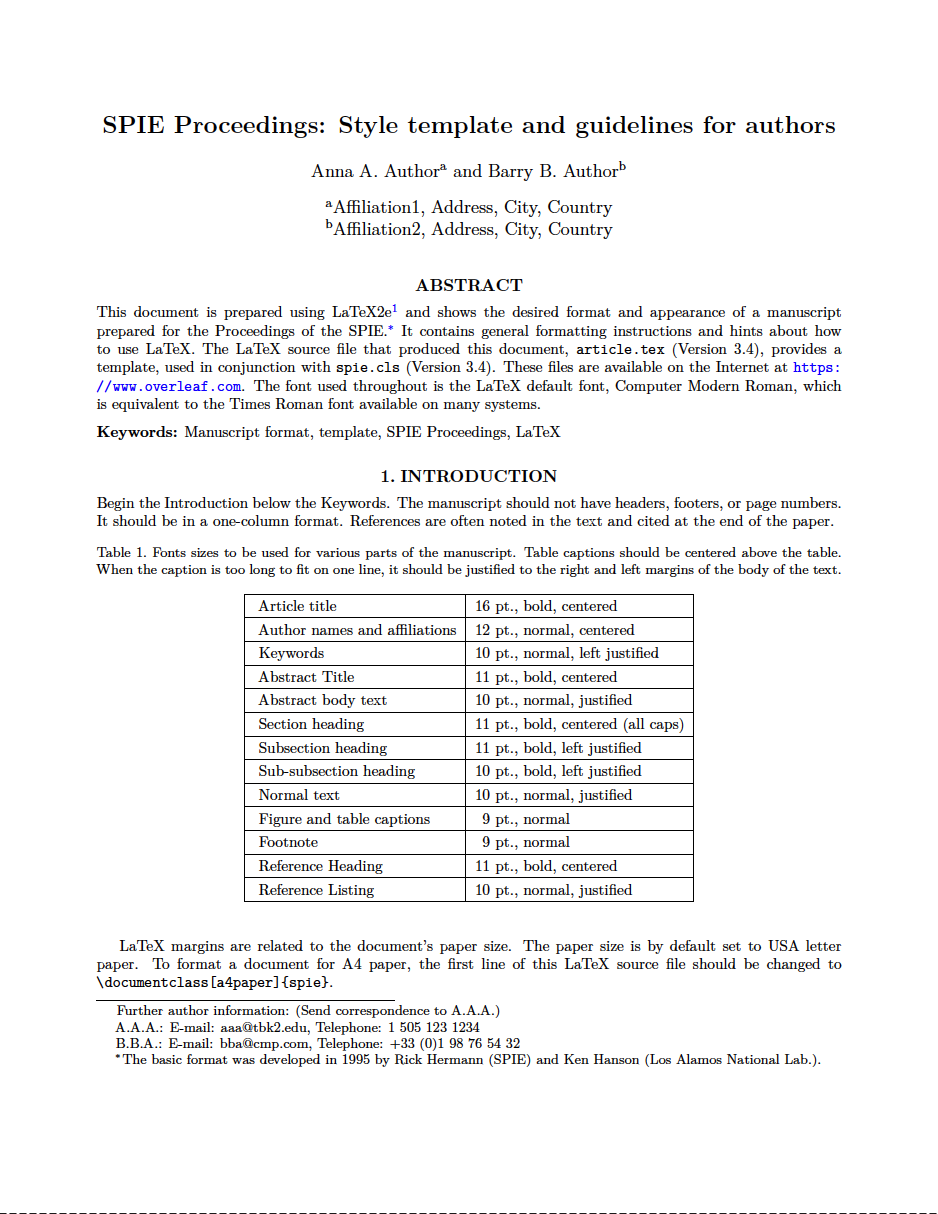
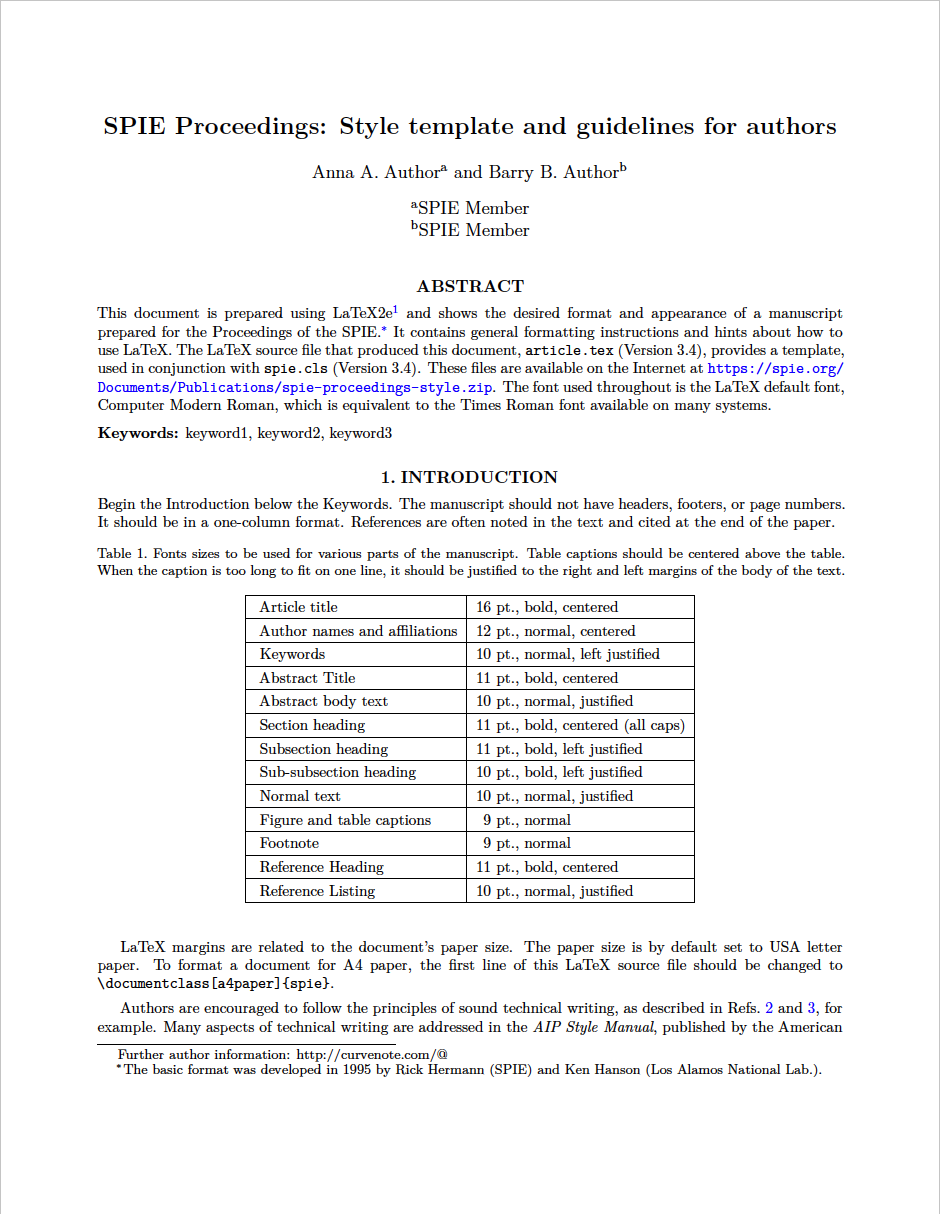
updated syntax and thumb, aligned example content

Changed region(s): [[0.0928, 0.0914, 0.8966, 0.8839], [0.9893, 0.9753, 1.0, 1.0], [0.9893, 0.0, 1.0, 0.0305]]

diff --git a/latex/spie_proceedings/example/main.tex b/latex/spie_proceedings/example/main.tex
@@ -1,0 +1,212 @@
+\section{INTRODUCTION}
+\label{sec:intro}  % \label{} allows reference to this section
+
+Begin the Introduction below the Keywords. The manuscript should not have headers, footers, or page numbers. It should be in a one-column format. References are often noted in the text and cited at the end of the paper.
+
+\begin{table}[ht]
+\caption{Fonts sizes to be used for various parts of the manuscript.  Table captions should be centered above the table.  When the caption is too long to fit on one line, it should be justified to the right and left margins of the body of the text.}
+\label{tab:fonts}
+\begin{center}
+\begin{tabular}{|l|l|} %% this creates two columns
+%% |l|l| to left justify each column entry
+%% |c|c| to center each column entry
+%% use of \rule[]{}{} below opens up each row
+\hline
+\rule[-1ex]{0pt}{3.5ex}  Article title & 16 pt., bold, centered  \\
+\hline
+\rule[-1ex]{0pt}{3.5ex}  Author names and affiliations & 12 pt., normal, centered   \\
+\hline
+\rule[-1ex]{0pt}{3.5ex}  Keywords & 10 pt., normal, left justified   \\
+\hline
+\rule[-1ex]{0pt}{3.5ex}  Abstract Title & 11 pt., bold, centered   \\
+\hline
+\rule[-1ex]{0pt}{3.5ex}  Abstract body text & 10 pt., normal, justified   \\
+\hline
+\rule[-1ex]{0pt}{3.5ex}  Section heading & 11 pt., bold, centered (all caps)  \\
+\hline
+\rule[-1ex]{0pt}{3.5ex}  Subsection heading & 11 pt., bold, left justified  \\
+\hline
+\rule[-1ex]{0pt}{3.5ex}  Sub-subsection heading & 10 pt., bold, left justified  \\
+\hline
+\rule[-1ex]{0pt}{3.5ex}  Normal text & 10 pt., normal, justified  \\
+\hline
+\rule[-1ex]{0pt}{3.5ex}  Figure and table captions & \, 9 pt., normal \\
+\hline
+\rule[-1ex]{0pt}{3.5ex}  Footnote & \, 9 pt., normal \\
+\hline
+\rule[-1ex]{0pt}{3.5ex}  Reference Heading & 11 pt., bold, centered   \\
+\hline
+\rule[-1ex]{0pt}{3.5ex}  Reference Listing & 10 pt., normal, justified   \\
+\hline
+\end{tabular}
+\end{center}
+\end{table}
+
+\begin{table}[ht]
+\caption{Margins and print area specifications.}
+\label{tab:Paper Margins}
+\begin{center}
+\begin{tabular}{|l|l|l|}
+\hline
+\rule[-1ex]{0pt}{3.5ex}  Margin & A4 & Letter  \\
+\hline
+\rule[-1ex]{0pt}{3.5ex}  Top margin & 2.54 cm & 1.0 in.   \\
+\hline
+\rule[-1ex]{0pt}{3.5ex}  Bottom margin & 4.94 cm & 1.25 in.  \\
+\hline
+\rule[-1ex]{0pt}{3.5ex}  Left, right margin & 1.925 cm & .875 in.  \\
+\hline
+\rule[-1ex]{0pt}{3.5ex}  Printable area & 17.15 x 22.23 cm & 6.75 x 8.75 in.  \\
+\hline
+\end{tabular}
+\end{center}
+\end{table}
+
+LaTeX margins are related to the document's paper size. The paper size is by default set to USA letter paper. To format a document for A4 paper, the first line of this LaTeX source file should be changed to \verb|\documentclass[a4paper]{spie}|.
+
+Authors are encouraged to follow the principles of sound technical writing, as described in Refs.~\citenum{Alred03} and \citenum{Perelman97}, for example.  Many aspects of technical writing are addressed in the {\em AIP Style Manual}, published by the American Institute of Physics.  It is available on line at \url{https://publishing.aip.org/authors}. A spelling checker is helpful for finding misspelled words.
+
+An author may use this LaTeX source file as a template by substituting his/her own text in each field.  This document is not meant to be a complete guide on how to use LaTeX.  For that, please see the list of references at \url{http://latex-project.org/guides/} and for an online introduction to LaTeX please see \citenum{Lees-Miller-LaTeX-course-1}.
+
+\section{FORMATTING OF MANUSCRIPT COMPONENTS}
+
+This section describes the normal structure of a manuscript and how each part should be handled.  The appropriate vertical spacing between various parts of this document is achieved in LaTeX through the proper use of defined constructs, such as \verb|\section{}|.  In LaTeX, paragraphs are separated by blank lines in the source file.
+
+At times it may be desired, for formatting reasons, to break a line without starting a new paragraph.  This situation may occur, for example, when formatting the article title, author information, or section headings.  Line breaks are inserted in LaTeX by entering \verb|\\| or \verb|\linebreak| in the LaTeX source file at the desired location.
+
+\subsection{Title and Author Information}
+\label{sec:title}
+
+The article title appears centered at the top of the first page.  The title font is 16 point, bold.  The rules for capitalizing the title are the same as for sentences; only the first word, proper nouns, and acronyms should be capitalized.  Avoid using acronyms in the title.  Keep in mind that people outside your area of expertise might read your article. At the first occurrence of an acronym, spell it out, followed by the acronym in parentheses, e.g., noise power spectrum (NPS).
+
+The author list is in 12-pt. regular, centered. Omit titles and degrees such as Dr., Prof., Ph.D., etc. The list of affiliations follows the author list. Each author's affiliation should be clearly noted. Superscripts may be used to identify the correspondence between the authors and their respective affiliations.  Further author information, such as e-mail address, complete postal address, and web-site location, may be provided in a footnote by using \verb|\authorinfo{}|, as demonstrated above.
+
+\subsection{Abstract and Keywords}
+The title and author information is immediately followed by the Abstract. The Abstract should concisely summarize the key findings of the paper.  It should consist of a single paragraph containing no more than 250 words.  The Abstract does not have a section number.  A list of up to eight keywords should immediately follow the Abstract after a blank line.  These keywords will be included in a searchable database at SPIE.
+
+\subsection{Body of Paper}
+The body of the paper consists of numbered sections that present the main findings.  These sections should be organized to best present the material.  See Sec.~\ref{sec:sections} for formatting instructions.
+
+\subsection{Appendices}
+Auxiliary material that is best left out of the main body of the paper, for example, derivations of equations, proofs of theorems, and details of algorithms, may be included in appendices.  Appendices are enumerated with uppercase Latin letters in alphabetic order, and appear just before the Acknowledgments and References. Appendix~\ref{sec:misc} contains more about formatting equations and theorems.
+
+\subsection{Acknowledgments}
+In the Acknowledgments section, appearing just before the References, the authors may credit others for their guidance or help.  Also, funding sources may be stated.  The Acknowledgments section does not have a section number.
+
+\subsection{References}
+SPIE is able to display the references section of your paper in the SPIE Digital Library, complete with links to referenced journal articles, proceedings papers, and books, when available. This added feature will bring more readers to your paper and improve the usefulness of the SPIE Digital Library for all researchers. The References section does not have a section number.  The references are numbered in the order in which they are cited.  Examples of the format to be followed are given at the end of this document.
+
+The reference list at the end of this document is created using BibTeX, which looks through the file {\ttfamily report.bib} for the entries cited in the LaTeX source file.  The format of the reference list is determined by the bibliography style file {\ttfamily spiebib.bst}, as specified in the \verb|\bibliographystyle{spiebib}| command.  Alternatively, the references may be directly formatted in the LaTeX source file.
+
+For books\cite{Lamport94,Alred03,Goossens97}, the listing includes the list of authors, book title, publisher, city, page or chapter numbers, and year of publication.  A reference to a journal article\cite{Metropolis53} includes the author list, title of the article (in quotes), journal name (in italics, properly abbreviated), volume number (in bold), inclusive page numbers, and year.  By convention\cite{Lamport94}, article titles are capitalized as described in Sec.~\ref{sec:title}.  A reference to a proceedings paper or a chapter in an edited book\cite{Gull89a} includes the author list, title of the article (in quotes), volume or series title (in italics), volume number (in bold), if applicable, inclusive page numbers, publisher, city, and year.  References to an article in the SPIE Proceedings may include the conference name (in italics), as shown in Ref.~\citenum{Hanson93c}. For websites\cite{Lees-Miller-LaTeX-course-1} the listing includes the list of authors, title of the article (in quotes), website name, article date, website address either enclosed in chevron symbols ('\(<\)' and '\(>\)'),  underlined or linked, and the date the website was accessed.
+
+If you use this formatting, your references will link your manuscript to other research papers that are in the CrossRef system. Exact punctuation is required for the automated linking to be successful.
+
+Citations to the references are made using superscript numerals, as demonstrated in the above paragraph.  One may also directly refer to a reference within the text, e.g., ``as shown in Ref.~\citenum{Metropolis53} ...''
+
+\subsection{Footnotes}
+Footnotes\footnote{Footnotes are indicated as superscript symbols to avoid confusion with citations.} may be used to provide auxiliary information that doesn't need to appear in the text, e.g., to explain measurement units.  They should be used sparingly, however.
+
+Only nine footnote symbols are available in LaTeX. If you have more than nine footnotes, you will need to restart the sequence using the command  \verb|\footnote[1]{Your footnote text goes here.}|. If you don't, LaTeX will provide the error message {\ttfamily Counter too large.}, followed by the offending footnote command.
+
+\section{SECTION FORMATTING}
+\label{sec:sections}
+
+Section headings are centered and formatted completely in uppercase 11-point bold font.  Sections should be numbered sequentially, starting with the first section after the Abstract.  The heading starts with the section number, followed by a period.  In LaTeX, a new section is created with the \verb|\section{}| command, which automatically numbers the sections.
+
+Paragraphs that immediately follow a section heading are leading paragraphs and should not be indented, according to standard publishing style\cite{Lamport94}.  The same goes for leading paragraphs of subsections and sub-subsections.  Subsequent paragraphs are standard paragraphs, with 14-pt.\ (5 mm) indentation.  An extra half-line space should be inserted between paragraphs.  In LaTeX, this spacing is specified by the parameter \verb|\parskip|, which is set in {\ttfamily spie.cls}.  Indentation of the first line of a paragraph may be avoided by starting it with \verb|\noindent|.
+
+\subsection{Subsection Attributes}
+
+The subsection heading is left justified and set in 11-point, bold font.  Capitalization rules are the same as those for book titles.  The first word of a subsection heading is capitalized.  The remaining words are also capitalized, except for minor words with fewer than four letters, such as articles (a, an, and the), short prepositions (of, at, by, for, in, etc.), and short conjunctions (and, or, as, but, etc.).  Subsection numbers consist of the section number, followed by a period, and the subsection number within that section.
+
+\subsubsection{Sub-subsection attributes}
+The sub-subsection heading is left justified and its font is 10 point, bold.  Capitalize as for sentences.  The first word of a sub-subsection heading is capitalized.  The rest of the heading is not capitalized, except for acronyms and proper names.
+
+\section{FIGURES AND TABLES}
+
+Figures are numbered in the order of their first citation.  They should appear in numerical order and on or after the same page as their first reference in the text.  Alternatively, all figures may be placed at the end of the manuscript, that is, after the Reference section.  It is preferable to have figures appear at the top or bottom of the page.  Figures, along with their captions, should be separated from the main text by at least 0.2 in.\ or 5 mm.
+
+Figure captions are centered below the figure or graph.  Figure captions start with the figure number in 9-point bold font, followed by a period; the text is in 9-point normal font; for example, ``{\footnotesize{Figure 3.}  Original image...}''.  See Fig.~\ref{fig:example} for an example of a figure caption.  When the caption is too long to fit on one line, it should be justified to the right and left margins of the body of the text.
+
+Tables are handled identically to figures, except that their captions appear above the table.
+
+   \begin{figure} [ht]
+   \begin{center}
+   \begin{tabular}{c} %% tabular useful for creating an array of images
+   \includegraphics[height=5cm]{mcr3b.eps}
+   \end{tabular}
+   \end{center}
+   \caption[example]
+%>>>> use \label inside caption to get Fig. number with \ref{}
+   { \label{fig:example}
+Figure captions are used to describe the figure and help the reader understand it's significance.  The caption should be centered underneath the figure and set in 9-point font.  It is preferable for figures and tables to be placed at the top or bottom of the page. LaTeX tends to adhere to this standard.}
+   \end{figure}
+
+\section{MULTIMEDIA FIGURES - VIDEO AND AUDIO FILES}
+
+Video and audio files can be included for publication. See Tab.~\ref{tab:Multimedia-Specifications} for the specifications for the mulitimedia files. Use a screenshot or another .jpg illustration for placement in the text. Use the file name to begin the caption. The text of the caption must end with the text ``http://dx.doi.org/doi.number.goes.here'' which tells the SPIE editor where to insert the hyperlink in the digital version of the manuscript.
+
+Here is a sample illustration and caption for a multimedia file:
+
+   \begin{figure} [ht]
+   \begin{center}
+   \begin{tabular}{c}
+   \includegraphics[height=5cm]{MultimediaFigure.jpg}
+	\end{tabular}
+	\end{center}
+   \caption[example]
+   { \label{fig:video-example}
+A label of “Video/Audio 1, 2, …” should appear at the beginning of the caption to indicate to which multimedia file it is linked . Include this text at the end of the caption: \url{http://dx.doi.org/doi.number.goes.here}}
+   \end{figure}
+
+   \begin{table}[ht]
+\caption{Information on video and audio files that must accompany a manuscript submission.}
+\label{tab:Multimedia-Specifications}
+\begin{center}
+\begin{tabular}{|l|l|l|}
+\hline
+\rule[-1ex]{0pt}{3.5ex}  Item & Video & Audio  \\
+\hline
+\rule[-1ex]{0pt}{3.5ex}  File name & Video1, video2... & Audio1, audio2...   \\
+\hline
+\rule[-1ex]{0pt}{3.5ex}  Number of files & 0-10 & 0-10  \\
+\hline
+\rule[-1ex]{0pt}{3.5ex}  Size of each file & 5 MB & 5 MB  \\
+\hline
+\rule[-1ex]{0pt}{3.5ex}  File types accepted & .mpeg, .mov (Quicktime), .wmv (Windows Media Player) & .wav, .mp3  \\
+\hline
+\end{tabular}
+\end{center}
+\end{table}
+
+\appendix    %>>>> this command starts appendixes
+
+\section{MISCELLANEOUS FORMATTING DETAILS}
+\label{sec:misc}
+
+It is often useful to refer back (or forward) to other sections in the article.  Such references are made by section number.  When a section reference starts a sentence, Section is spelled out; otherwise use its abbreviation, for example, ``In Sec.~2 we showed...'' or ``Section~2.1 contained a description...''.  References to figures, tables, and theorems are handled the same way.
+
+\subsection{Formatting Equations}
+Equations may appear in line with the text, if they are simple, short, and not of major importance; e.g., $\beta = b/r$.  Important equations appear on their own line.  Such equations are centered.  For example, ``The expression for the field of view is
+\begin{equation}
+\label{eq:fov}
+2 a = \frac{(b + 1)}{3c} \, ,
+\end{equation}
+where $a$ is the ...'' Principal equations are numbered, with the equation number placed within parentheses and right justified.
+
+Equations are considered to be part of a sentence and should be punctuated accordingly. In the above example, a comma follows the equation because the next line is a subordinate clause.  If the equation ends the sentence, a period should follow the equation.  The line following an equation should not be indented unless it is meant to start a new paragraph.  Indentation after an equation is avoided in LaTeX by not leaving a blank line between the equation and the subsequent text.
+
+References to equations include the equation number in parentheses, for example, ``Equation~(\ref{eq:fov}) shows ...'' or ``Combining Eqs.~(2) and (3), we obtain...''  Using a tilde in the LaTeX source file between two characters avoids unwanted line breaks.
+
+\subsection{Formatting Theorems}
+
+To include theorems in a formal way, the theorem identification should appear in a 10-point, bold font, left justified and followed by a period.  The text of the theorem continues on the same line in normal, 10-point font.  For example,
+
+\noindent\textbf{Theorem 1.} For any unbiased estimator...
+
+Formal statements of lemmas and algorithms receive a similar treatment.
+
+\acknowledgments % equivalent to \section*{ACKNOWLEDGMENTS}
+
+This unnumbered section is used to identify those who have aided the authors in understanding or accomplishing the work presented and to acknowledge sources of funding.

diff --git a/latex/spie_proceedings/template.tex b/latex/spie_proceedings/template.tex
@@ -1,4 +1,4 @@
-\documentclass[ [[options.doc_class]] ]{spie}  %>>> use for US letter paper
+\documentclass[ [-options.doc_class-] ]{spie}  %>>> use for US letter paper
 %\documentclass[a4paper]{spie}  %>>> use this instead for A4 paper
 %\documentclass[nocompress]{spie}  %>>> to avoid compression of citations
 
@@ -8,51 +8,51 @@
 
 \renewcommand{\baselinestretch}{1.0} % Change to 1.65 for double spacing
 
-\title{[[doc.title]]}
+\title{[-doc.title-]}
 
 [# set alphabet=' abcdefghijklmnopqrstuvwxyz' #]
 
 [# for author in doc.authors #]
-\author[ [[alphabet[loop.index]]] ]{[[author.name]]}
+\author[[-alphabet[loop.index]-]]{[-author.name-]}
 [# endfor #]
 [# for author in doc.authors #]
-\affil[ [[alphabet[loop.index]]] ]{[[author.affiliation]]}
+\affil[[-alphabet[loop.index]-]]{[-author.affiliation-]}
 [# endfor #]
 
 % \authorinfo{Further author information: your@emaildomain.com}
-\authorinfo{Further author information: http://curvenote.com/@[[doc.authors[0].username]]}
+\authorinfo{Further author information: http://curvenote.com/@[-doc.authors[0].username-]}
 
 % Option to view page numbers
 % \pagestyle{empty} or \pagestyle{plain} to show page numbers
 [# if options.page_numbers #]\pagestyle{plain}[# else #]\pagestyle{empty}[# endif #]
 % \setcounter{page}{301}
-[# if options.start_page #]\setcounter{page}{[[options.start_page]]}[# endif #]
+[# if options.start_page #]\setcounter{page}{[-options.start_page-]}[# endif #]
 
 \begin{document}
 \maketitle
 
 % include abstract \begin{abstract} the abstract text \end{abstract}
-[# if tagged.abstract #]\begin{abstract}[[tagged.abstract]]\end{abstract}[# endif #]
+[# if tagged.abstract #]\begin{abstract}[-tagged.abstract-]\end{abstract}[# endif #]
 
 % Include a list of keywords after the abstract
 % \keywords{Manuscript format, template, SPIE Proceedings, LaTeX}
-[# if doc.tags #]\keywords{[[", ".join(doc.tags)]]}[# endif #]
+[# if doc.tags #]\keywords{[-", ".join(doc.tags)-]}[# endif #]
 
 
-[[CONTENT]]
+[-CONTENT-]
 
 
 % Include appendix
 [# if tagged.appendix #]
 \apendix
-[[tagged.appendix]]
+[-tagged.appendix-]
 [# endif #]
 
 % Include acknowledgments
 [# if tagged.acknowledgments or options.backlink#]
 \acknowledgments
-[[tagged.acknowledgments]]
-[# if options.backlink #]\href{[[doc.oxalink]]}{View this paper online.}[# endif #]
+[-tagged.acknowledgments-]
+[# if options.backlink #]\href{[-doc.oxalink-]}{View this paper online.}[# endif #]
 [# endif #]
 
 % References
